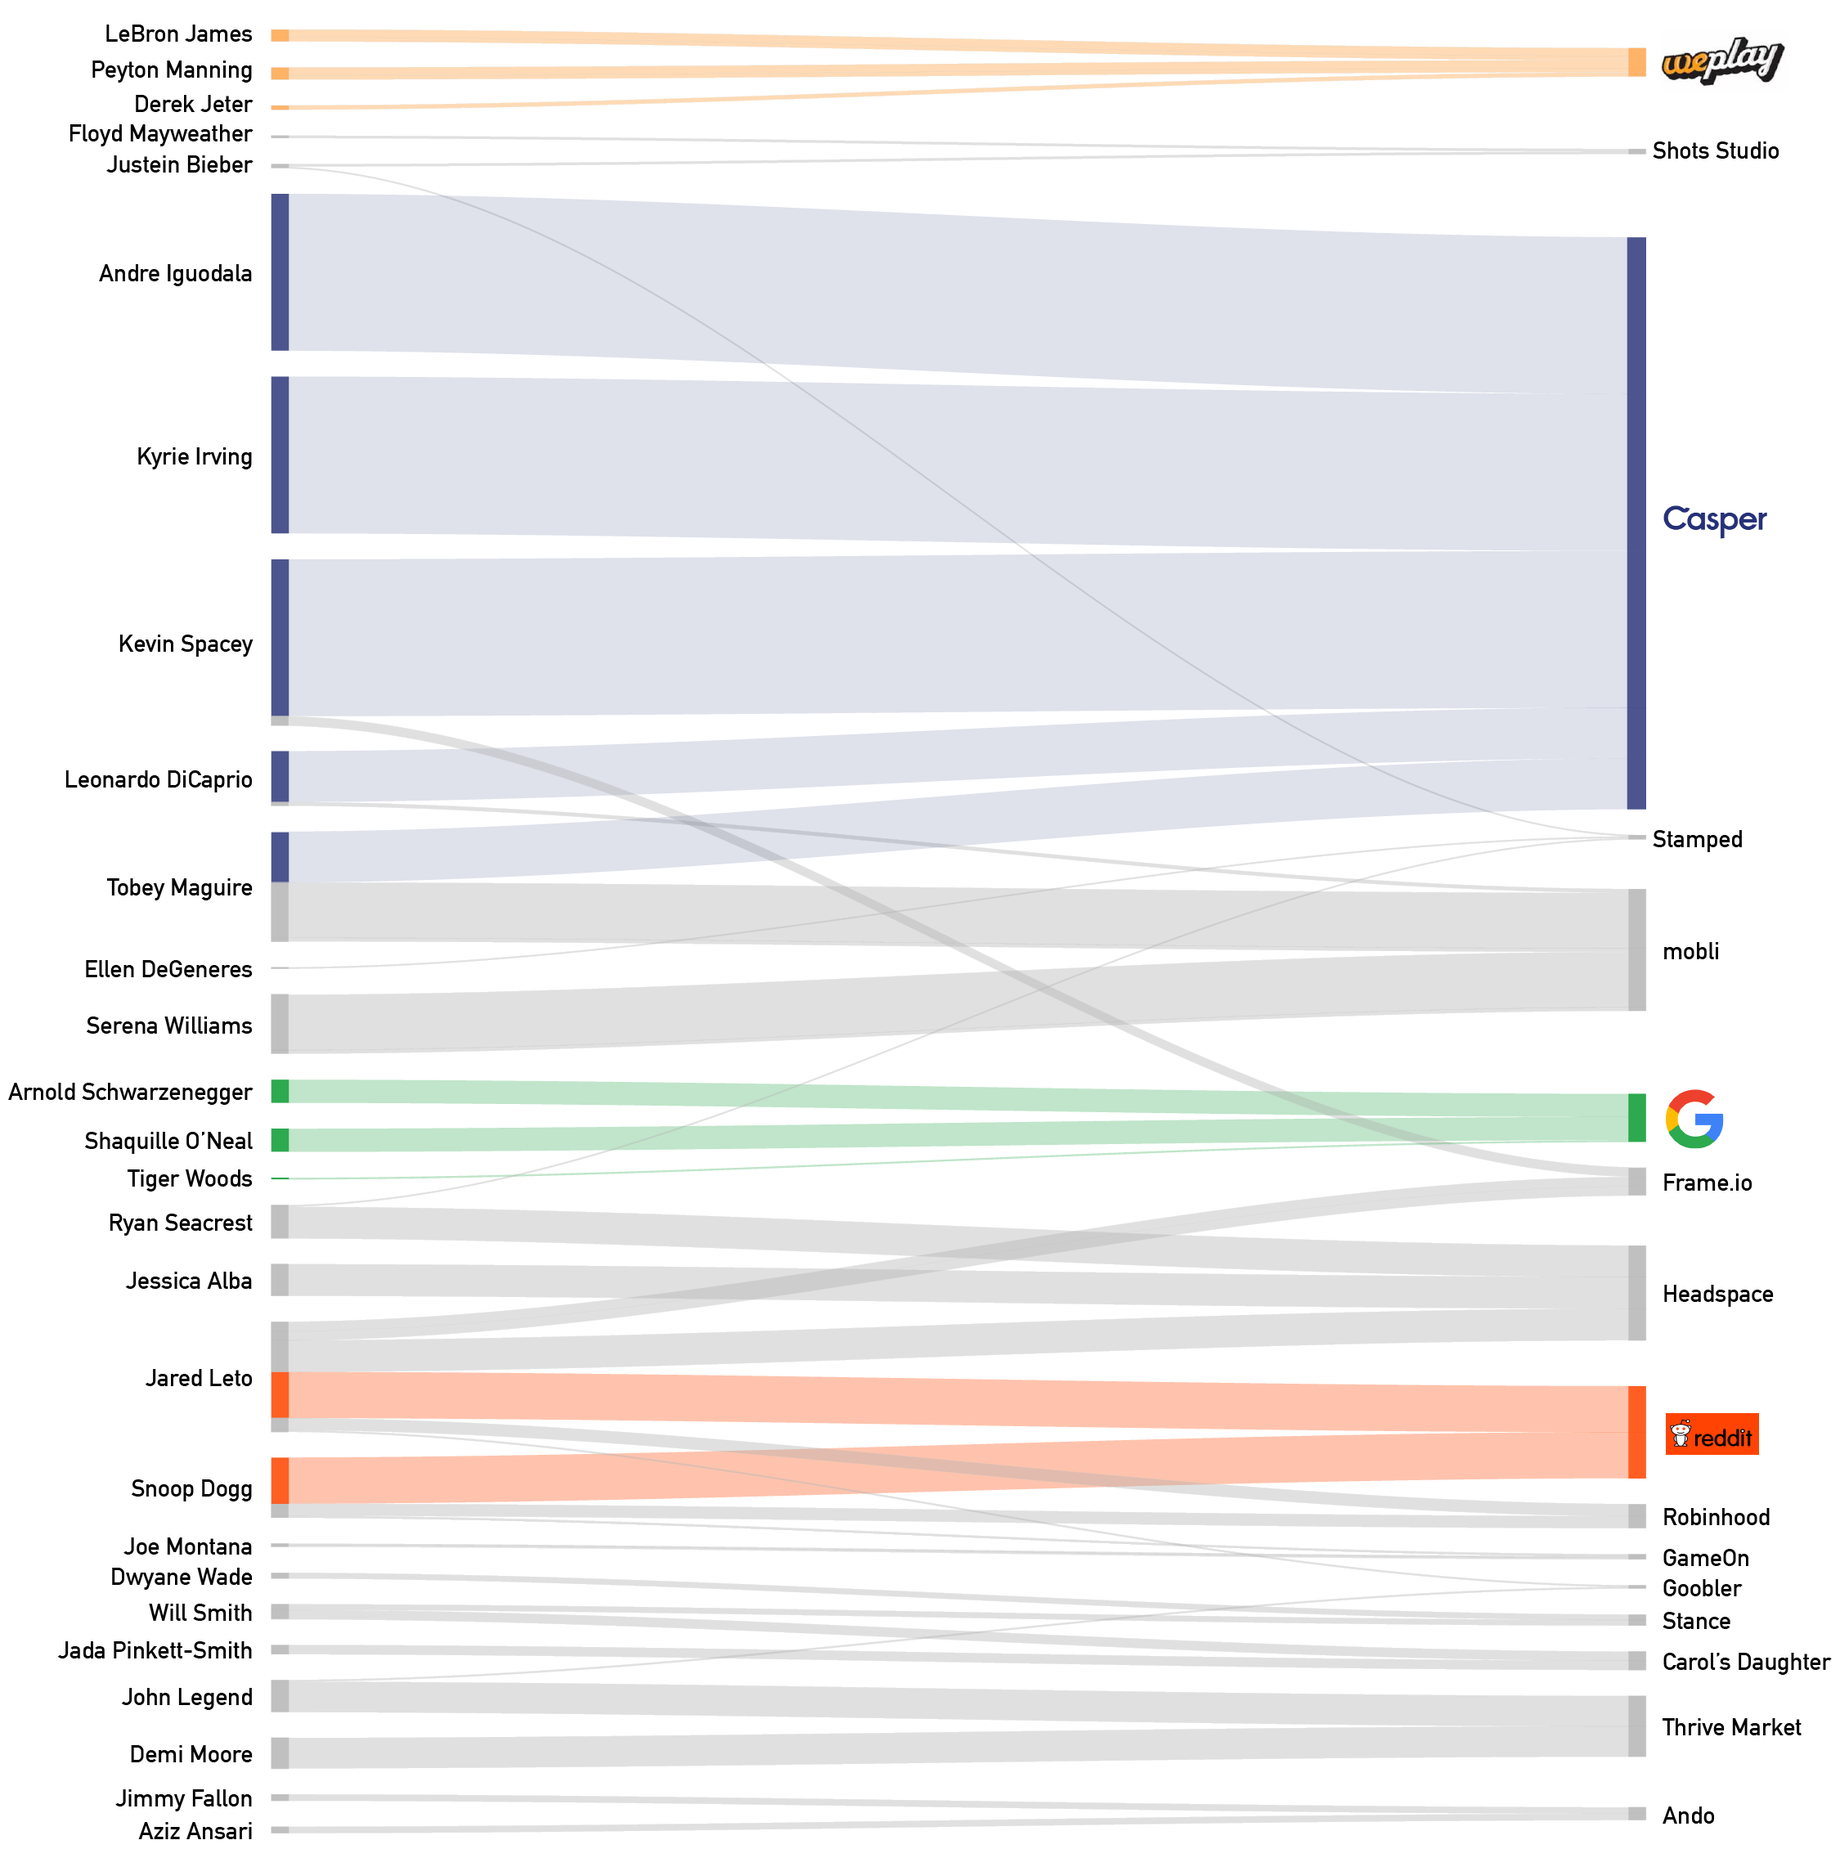
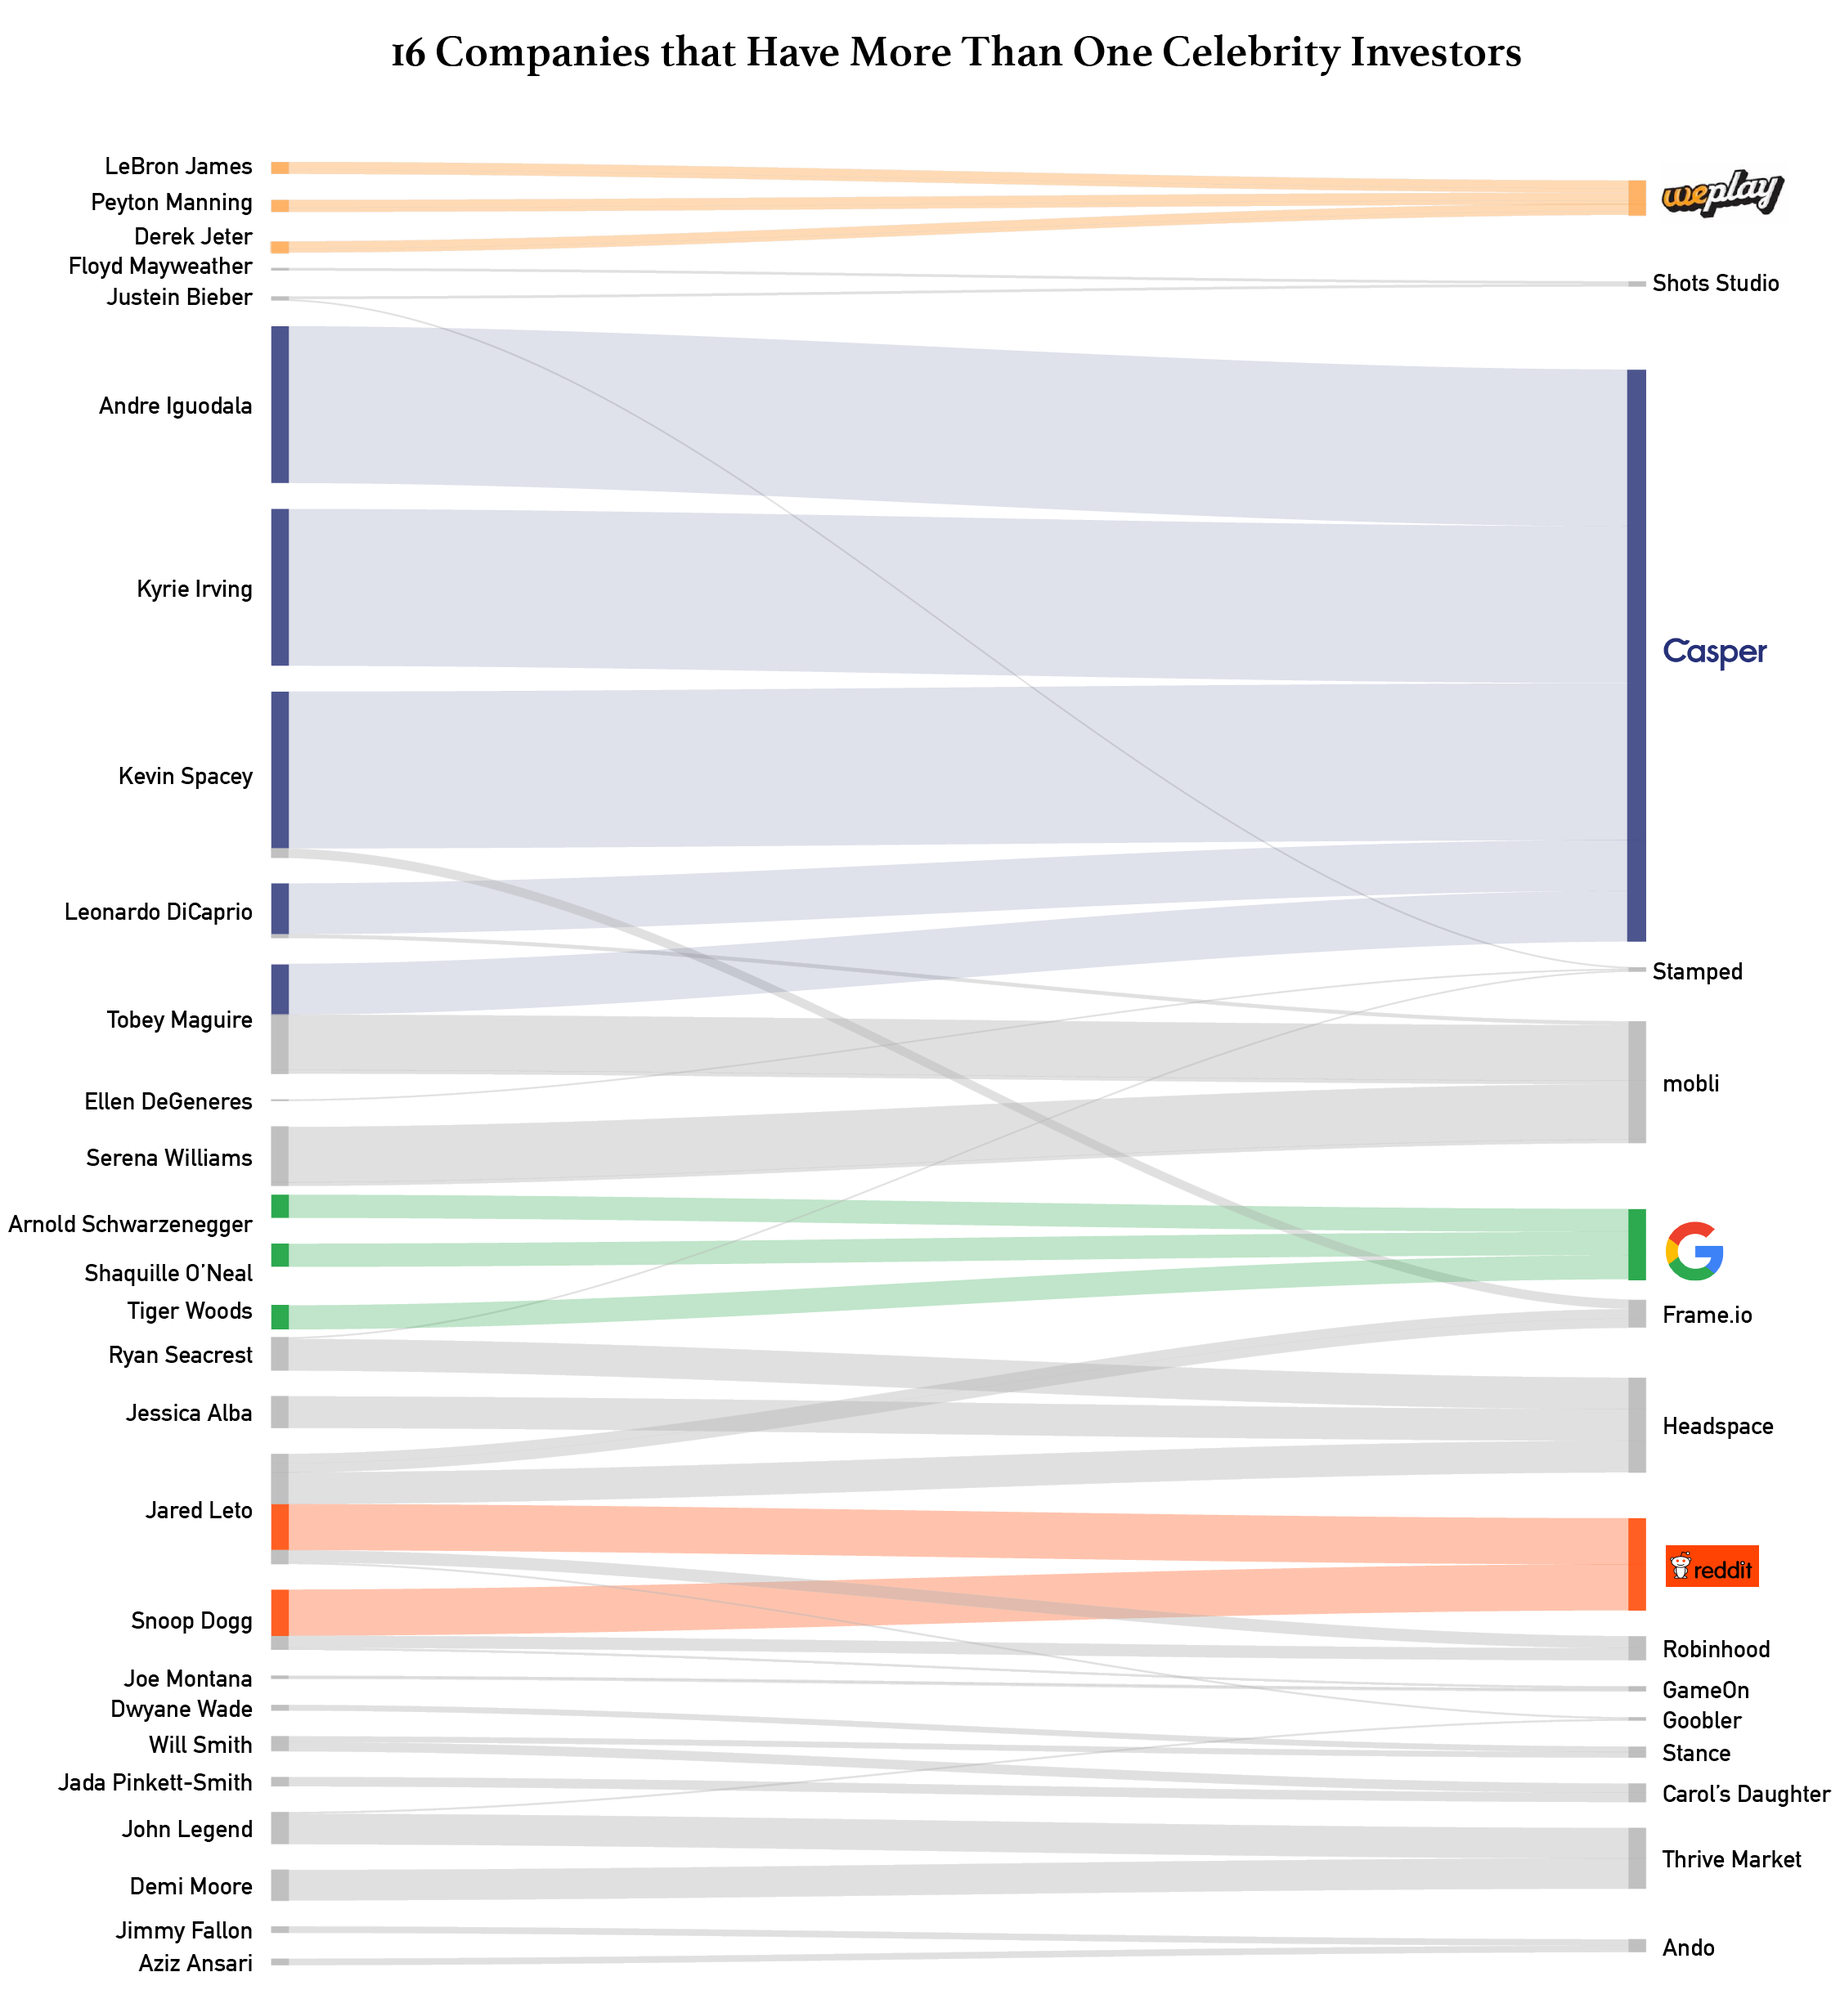
update website

diff --git a/project_3_celebrity_startup/celebrity_startup.html b/project_3_celebrity_startup/celebrity_startup.html
@@ -32,7 +32,7 @@
 
 <p>We identified 56 celebrity investors out of the top 500 investors on <a href="www.crunchbase.com/app/search/people" target="_blank">Crunchbase</a>, one of the biggest business information platform. These 56 celebrity investors have made 139 investments in 153 companies. The earliest investments were conducted back to 1999, yet it was until 2011 that the investments became more frequent.</p>
 
-<div class="content"><img src="graphics/sankey_all_title.png" /></div>
+<div class="content"><img src="graphics/sankey_all.png" /></div>
 
 <p>How do celebrities come up an investment idea? A conversation on a banquet? Some advices from his/her financial advisors? Or linked by some executive from the company they both work for?</p>
 
@@ -201,8 +201,8 @@ Jared Leto’s reputation as one of the smartest and most active investors in Ho
 	<a href="https://www.crunchbase.com/organization/weplay#/entity" target="_blank">Weplay</a></td>
 	<td>89.60</td></tr>
 <tr><td>170</td><td>Jimmy Fallon</td><td>Personality</td>
-	<td><a href="https://www.crunchbase.com/organization/bluejeans-network#/entity" target="_blank">BlueJeans Network</a>,
-	<a href="https://www.crunchbase.com/organization/weplay#/entity" target="_blank">Weplay</a></td>
+	<td><a href="https://www.crunchbase.com/organization/ando#/entity" target="_blank">Ando</a>,
+	<a href="https://www.crunchbase.com/organization/turntable.fm#/entity" target="_blank">turntable.fm</a></td>
 	<td>14.00</td></tr>
 <tr><td>184</td><td>Aaron Rodgers</td><td>Athlete</td><td><a href="https://www.crunchbase.com/organization/onehope#/entity" target="_blank">ONEHOPE</a></td><td>4.00</td></tr>
 <tr><td>185</td><td>Dwyane Wade</td><td>Athlete</td><td><a href="https://www.crunchbase.com/organization/stance#/entity" target="_blank">Stance</a></td><td>6.00</td></tr>
